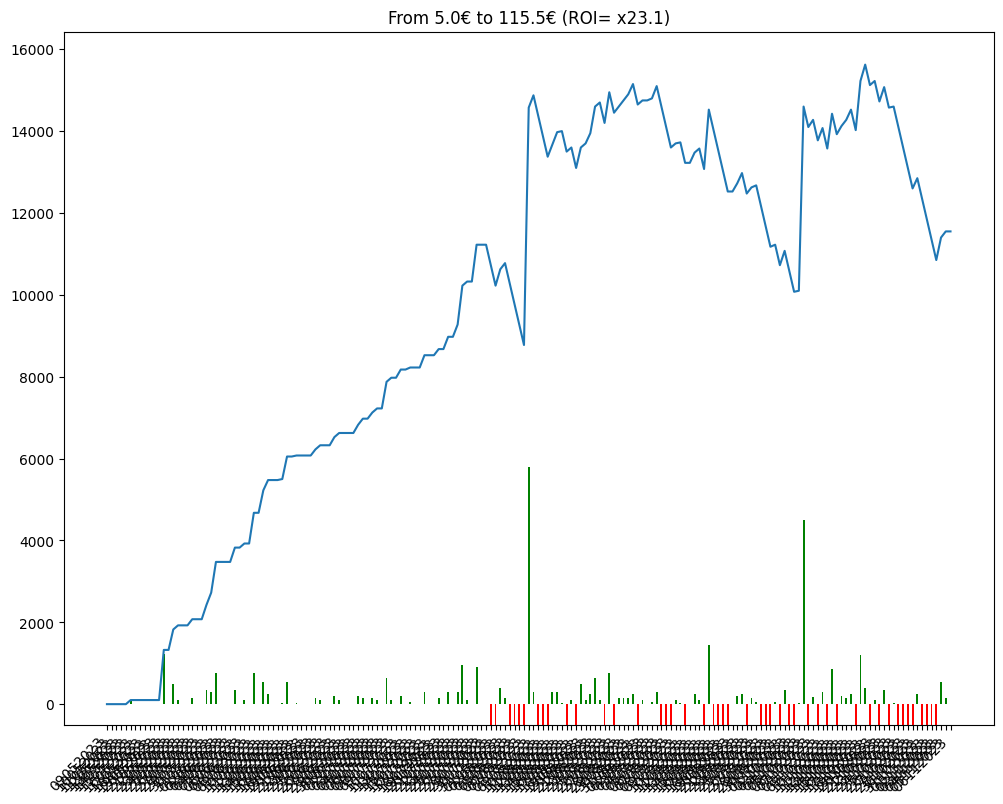
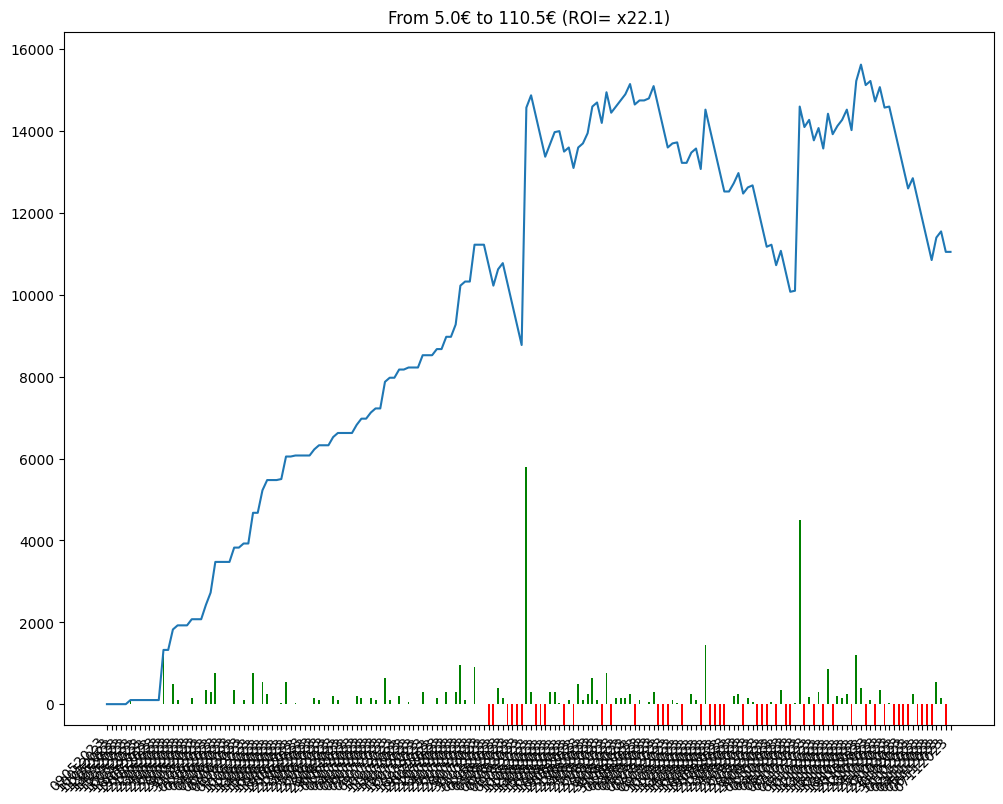
comment from python script

diff --git a/bethistory.html b/bethistory.html
@@ -86,7 +86,8 @@
             En observant la courbe 🤔, on peut avoir une idée visuelle de l'évolution des gains et ainsi évaluer le model utilisé 🧑🏫.
         </p>
         
-        <img src = "/candle.png" alt="candle chart"/><table><tr><td>Chevaux joués</td><td>Gains</td><td>URL Circuits</td></tr><tr><td>4 - MAHA DIVA</td><td>0</td><td><a href=https://www.pmu.fr/turf/06112023/r3/c4 target="_blank">https://www.pmu.fr/turf/06112023/r3/c4</a></td></tr>
+        <img src = "/candle.png" alt="candle chart"/><table><tr><td>Chevaux joués</td><td>Gains</td><td>URL Circuits</td></tr><tr><td>4 - VAL D'AOSTE</td><td>0</td><td><a href=https://www.pmu.fr/turf/07112023/r4/c3 target="_blank">https://www.pmu.fr/turf/07112023/r4/c3</a></td></tr>
+<tr><td>4 - MAHA DIVA</td><td>-500</td><td><a href=https://www.pmu.fr/turf/06112023/r3/c4 target="_blank">https://www.pmu.fr/turf/06112023/r3/c4</a></td></tr>
 <tr><td>9 - AQUA AUGUSTA</td><td>+150</td><td><a href=https://www.pmu.fr/turf/05112023/r1/c2 target="_blank">https://www.pmu.fr/turf/05112023/r1/c2</a></td></tr>
 <tr><td>2 - CALON LAN</td><td>+550</td><td><a href=https://www.pmu.fr/turf/04112023/r1/c1 target="_blank">https://www.pmu.fr/turf/04112023/r1/c1</a></td></tr>
 <tr><td>1 - PRINCE GEORGE</td><td>-500</td><td><a href=https://www.pmu.fr/turf/03112023/r5/c6 target="_blank">https://www.pmu.fr/turf/03112023/r5/c6</a></td></tr>
